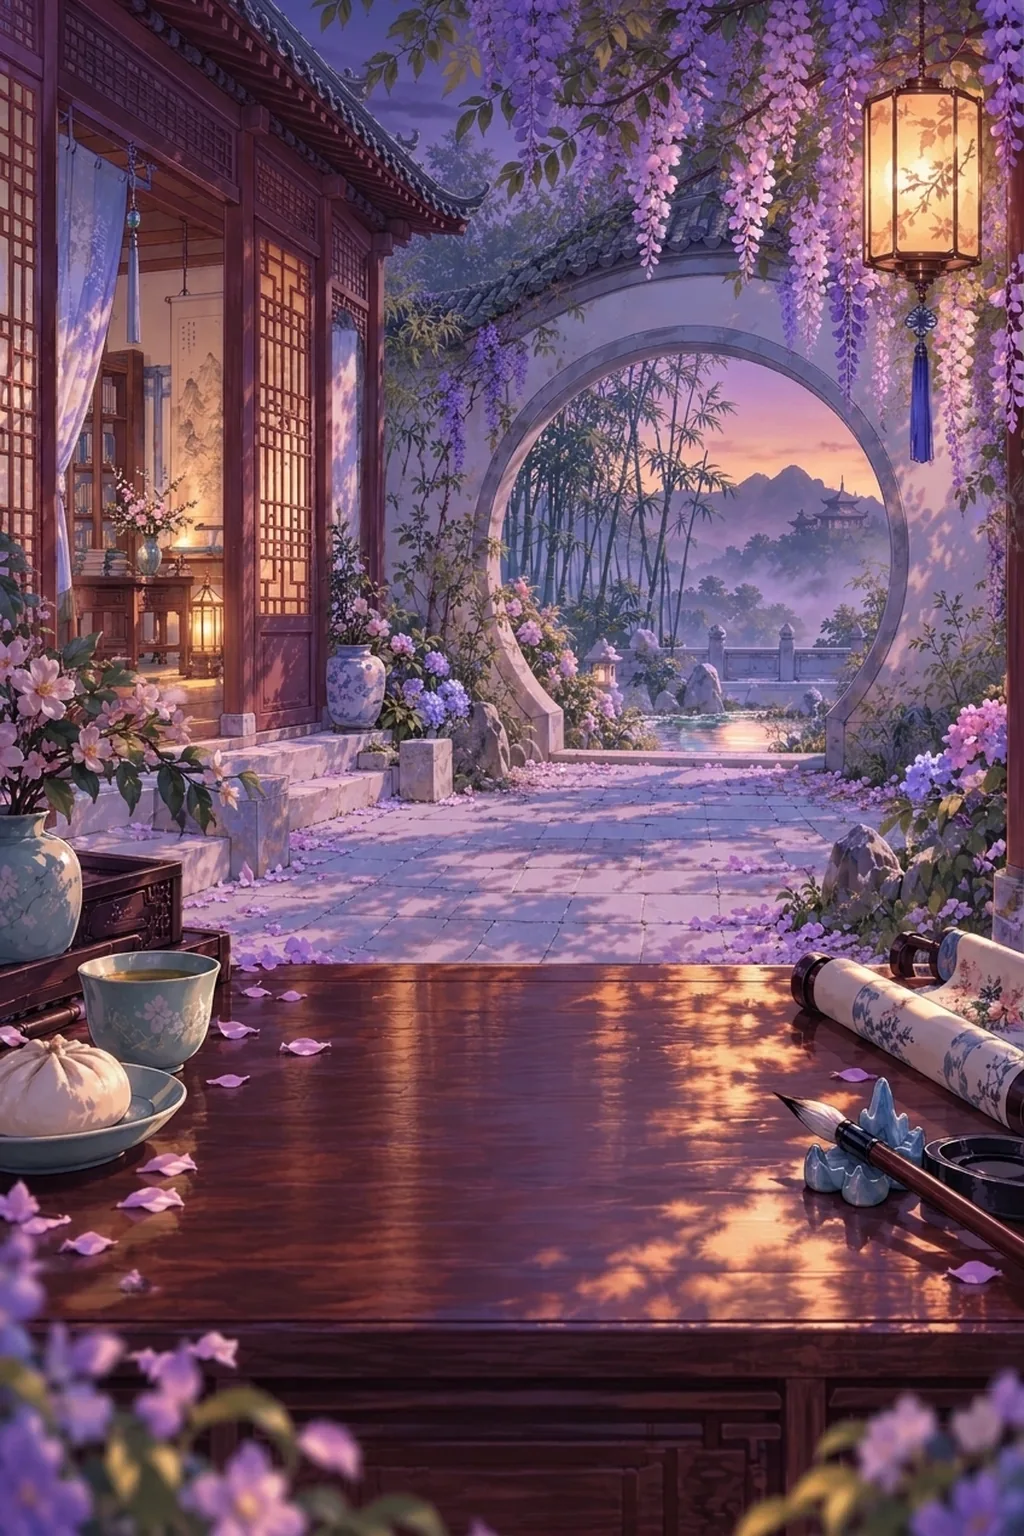
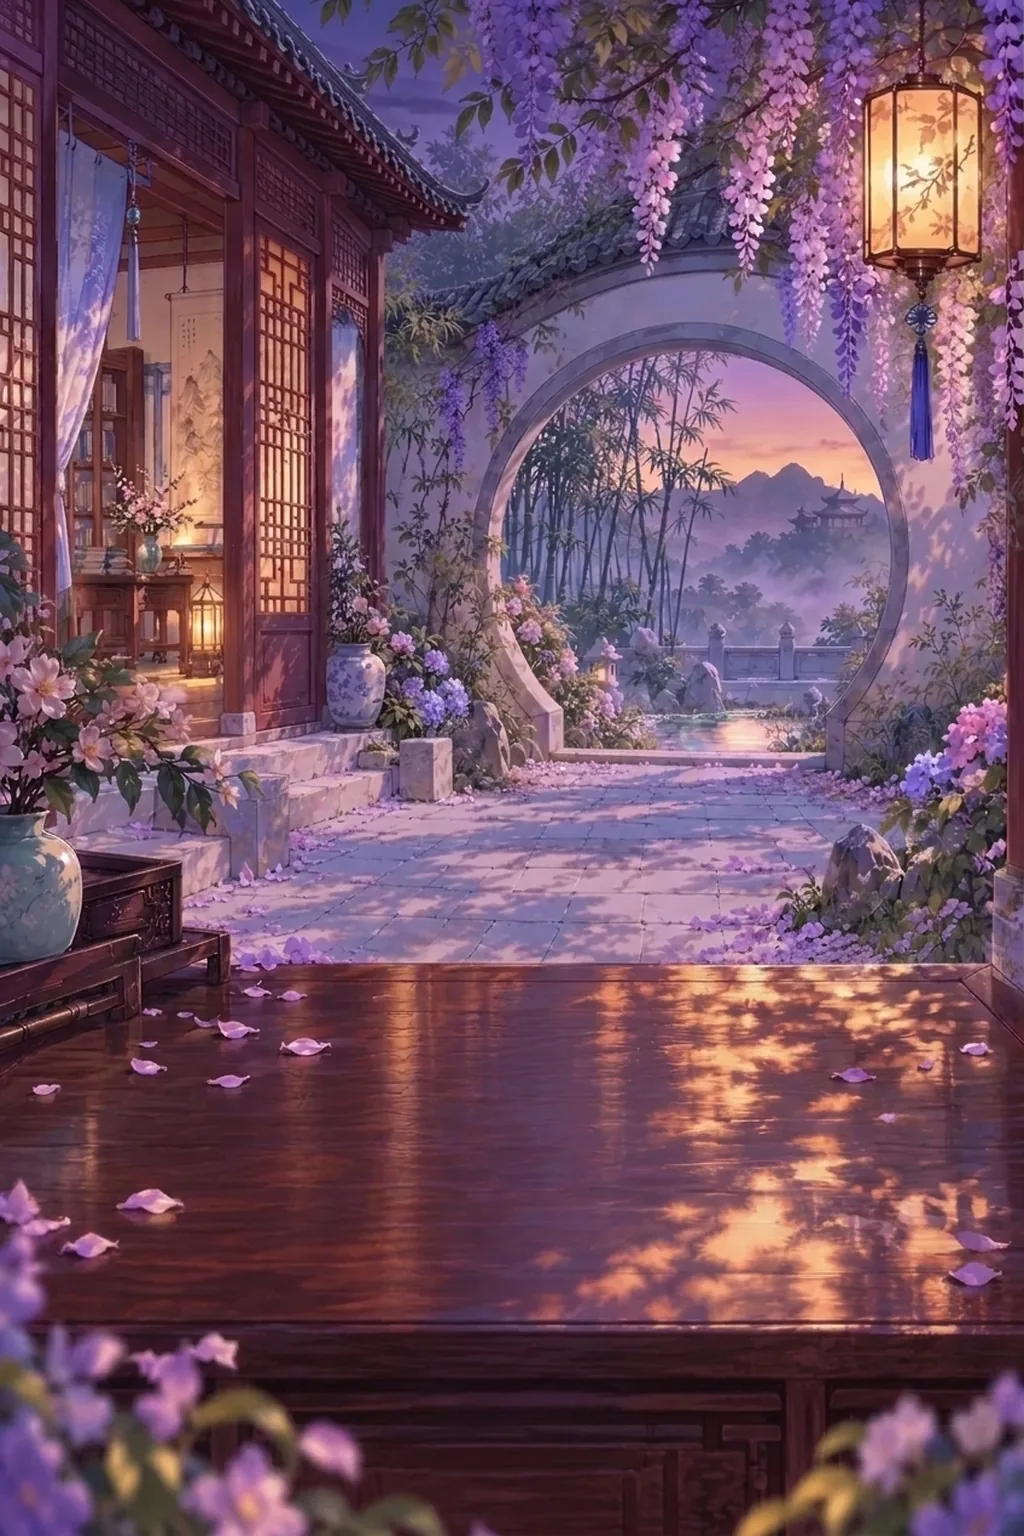
Paint the furnishings into the courtyard, on a cleared table
- New courtyard backgrounds (day, dusk, night, rain) with the table
  cleared of the painted cup, buns, scroll, brush and inkstone, made
  from the cleared day so all four match
- The six furnishings and the "tidy up?" papers are painted props in
  the courtyard's style (prop-*.webp), cut from a green-screen sheet
  and placed on the table at his scale; the chime hangs from the eaves
- Props take a soft contact shadow and follow the scene's light at
  dusk, night and in the rain; a thirsty orchid droops and greys
- His cushion nap now happens on the cushion itself (a new spot)
- The shop's furnishing cards show the painted props too

Claude-Session: https://claude.ai/code/session_01WmodTJ3qRr1zJHFAC2eRWe

diff --git a/style.css b/style.css
@@ -288,18 +288,24 @@ body[data-page=care] .toast{bottom:calc(145px + env(safe-area-inset-bottom))}
 .request-done{opacity:.8}
 .scene-topline>span:last-child{opacity:.8;white-space:nowrap;overflow:hidden;text-overflow:ellipsis;max-width:39%;font-size:8px}
 .room-decor{position:absolute;inset:0;z-index:3;pointer-events:none}
-.room-object{position:absolute;background:none;padding:5px;width:48px;height:54px;pointer-events:auto;color:#b69bae;filter:drop-shadow(0 3px 2px #35243735)}
-.room-object svg{width:100%;height:100%;stroke-width:1.25}
-.object-orchid{left:3%;bottom:18%;color:#a8bea1}
-.object-orchid svg{fill:#b0bba440}
-.object-scroll{left:5%;top:14%;color:#f0d8b3;width:42px;height:64px;background:#e6d3af45;border-radius:3px}
-.object-cup{right:8%;bottom:15%;color:#c4d6ce;fill:#cadbd0;width:45px;height:45px}
-.object-seal{right:3%;bottom:24%;color:#d4a47c;width:44px;height:46px}
-.object-chime{right:24%;top:9%;color:#d7bd91;height:62px;transform-origin:50% 0;animation:chimeSway 6s ease-in-out infinite}
-.object-cushion{left:50%;bottom:12%;transform:translateX(-50%);color:#c8a4c1;width:110px;height:35px}
-.object-cushion svg{fill:#ceacc67d;stroke-width:.9}
-.paper-clutter{position:absolute;z-index:3;left:12%;bottom:25%;width:49px;height:51px;background:none;color:#f2dec1;transform:rotate(-12deg);padding:3px;filter:drop-shadow(0 2px 2px #47333f44)}
-.paper-clutter svg{width:31px;height:31px;fill:#efdfc960;stroke-width:1}
+.room-object{position:absolute;background:none;padding:0;height:auto;pointer-events:auto}
+/* painted props on the cleared table; sizes are a share of the scene's width so they scale with it */
+.room-object img{display:block;width:100%;height:auto;pointer-events:none;filter:drop-shadow(0 3px 2px #2a1c2a55)}
+.object-orchid{left:1%;bottom:26%;width:23%}
+.object-cushion{left:54%;bottom:22%;width:38%}
+.object-scroll{left:85%;bottom:26%;width:14%}
+.object-cup{left:3%;bottom:12%;width:17%}
+.object-seal{left:83%;bottom:11%;width:15%}
+.object-chime{left:33%;top:-1%;width:8%;transform-origin:50% 0;animation:chimeSway 6s ease-in-out infinite}
+.object-chime img{filter:none}
+/* the props share the scene's light */
+[data-period=evening] .room-object img{filter:drop-shadow(0 3px 2px #2a1c2a55) brightness(.9) sepia(.18)}
+[data-period=night] .room-object img{filter:drop-shadow(0 3px 2px #10102055) brightness(.62) saturate(.72)}
+.rainy[data-period=morning] .room-object img,.rainy[data-period=afternoon] .room-object img{filter:drop-shadow(0 3px 2px #2a1c2a40) brightness(.88) saturate(.85)}
+.paper-clutter{position:absolute;z-index:3;left:30%;bottom:27%;width:16%;background:none;color:#fff7ed;padding:0;text-shadow:0 1px 4px #4f3640}
+.paper-clutter img{display:block;width:100%;height:auto;transform:rotate(-8deg);filter:drop-shadow(0 3px 2px #2a1c2a55)}
+[data-period=evening] .paper-clutter img{filter:drop-shadow(0 3px 2px #2a1c2a55) brightness(.9) sepia(.18)}
+[data-period=night] .paper-clutter img{filter:drop-shadow(0 3px 2px #10102055) brightness(.62) saturate(.72)}
 .paper-clutter span{font-family:var(--serif);font-style:italic;font-size:10px;display:block;margin-top:-2px}
 .ribbon-tie{position:absolute;z-index:2;width:18px;height:22px;right:28%;top:60%;filter:drop-shadow(0 1px 1px #362f4360);pointer-events:none}
 .ribbon-tie svg{width:100%;height:100%;fill:currentColor;stroke:#fff6;stroke-width:.7;transform:rotate(-12deg)}
@@ -556,11 +562,11 @@ body[data-page=care] .toast{bottom:calc(145px + env(safe-area-inset-bottom))}
 .search-locations.many button{min-height:52px;padding:9px 10px;gap:8px;font-size:11px;text-align:left}
 .search-locations.many svg{width:19px;height:19px;flex:none}
 .effect-note{font-size:10px;line-height:1.35;color:#9c8aa0;margin:-2px 0 6px;text-align:center}
-.room-object.thirsty{filter:saturate(.4);transform:rotate(-8deg);opacity:.75}
+.room-object.thirsty img{transform:rotate(-7deg) scaleY(.94);transform-origin:50% 100%;filter:saturate(.4) brightness(.92)}
 .room-object.thirsty::after{content:'water?';position:absolute;top:-14px;left:50%;transform:translateX(-50%);font-size:9px;font-style:italic;color:#fff7ed;text-shadow:0 1px 4px #4f3640;white-space:nowrap}
-.room-object.stirring svg{animation:chime-sway 1.6s ease-in-out infinite;transform-origin:50% 0}
+.room-object.stirring img{animation:chime-sway 1.6s ease-in-out infinite;transform-origin:50% 0}
 @keyframes chime-sway{25%{transform:rotate(9deg)}75%{transform:rotate(-9deg)}}
-.reduced-motion .room-object.stirring svg{animation:none}
+.reduced-motion .room-object.stirring img{animation:none}
 .treat-button small{opacity:.7;margin-left:3px}
 .jade-card{display:flex;gap:12px;align-items:flex-start;padding:12px 14px;margin-bottom:12px;border:1px solid #c9d8cc;border-radius:12px;background:#eef3ec88}
 .jade-card>svg{width:30px;height:30px;flex:none;stroke:#6f8f78;stroke-width:1.2;fill:none}
@@ -584,3 +590,4 @@ body[data-page=care] .toast{bottom:calc(145px + env(safe-area-inset-bottom))}
 .standalone .app-shell,.standalone .story-dialog{padding-top:calc(env(safe-area-inset-top) + var(--top-buffer))}
 /* the story reader covers the page completely, status bar included, in either theme */
 .story-dialog::backdrop{background:#f6f2e9;backdrop-filter:none}
+.prop-icon img{max-width:62px;max-height:52px;width:auto;height:auto;object-fit:contain;filter:drop-shadow(0 2px 2px #2a1c2a40)}

diff --git a/phase-two-ui.js b/phase-two-ui.js
@@ -37,7 +37,7 @@ export function createPhaseTwoUI(ctx){
       $('roomContent').innerHTML='<div class="furnishing-grid">'+TREATS.map(t=>'<article class="furnishing-card"><span class="prop-icon">'+icon(t.tray==='tea'?'tea':'bun')+'</span><h2>'+esc(t.name)+'</h2><p class="effect-note">'+esc(t.description)+'</p><button data-treat="'+t.id+'">'+t.price+' copper · buy'+(s.pantry[t.id]?' · '+s.pantry[t.id]+' kept':'')+'</button></article>').join('')+'</div><p class="shop-note">treats appear in the feed and tea trays. each is a big comfort, and a little extra bond.</p>';
       document.querySelectorAll('[data-treat]').forEach(b=>b.onclick=()=>{try{const next=buyTreat(ctx.state(),b.dataset.treat);ctx.commit({state:next});ctx.toast(TREATS.find(t=>t.id===b.dataset.treat).name+' · into the pantry');renderRoom();}catch(e){ctx.toast(e.message);}});
     }else{
-      $('roomContent').innerHTML='<div class="furnishing-grid">'+ITEMS.filter(i=>i.kind==='furnishing').map(item=>{const owned=s.owned.includes(item.id),placed=s.placed.includes(item.id);return '<article class="furnishing-card '+(placed?'is-placed':'')+'"><span class="prop-icon prop-'+item.id+'">'+icon(item.icon)+'</span><h2>'+esc(item.name)+'</h2><p class="effect-note">'+esc(item.effect)+'</p><button data-furnishing="'+item.id+'">'+(owned?placed?'put away':'place in courtyard':item.price+' copper · buy')+'</button></article>';}).join('')+'</div><p class="shop-note">tap a placed object in the courtyard to hear what he thinks.</p>';
+      $('roomContent').innerHTML='<div class="furnishing-grid">'+ITEMS.filter(i=>i.kind==='furnishing').map(item=>{const owned=s.owned.includes(item.id),placed=s.placed.includes(item.id);return '<article class="furnishing-card '+(placed?'is-placed':'')+'"><span class="prop-icon prop-'+item.id+'"><img src="./assets/prop-'+item.id+'.webp" alt=""></span><h2>'+esc(item.name)+'</h2><p class="effect-note">'+esc(item.effect)+'</p><button data-furnishing="'+item.id+'">'+(owned?placed?'put away':'place in courtyard':item.price+' copper · buy')+'</button></article>';}).join('')+'</div><p class="shop-note">tap a placed object in the courtyard to hear what he thinks.</p>';
       document.querySelectorAll('[data-furnishing]').forEach(b=>b.onclick=()=>{const item=ITEMS.find(i=>i.id===b.dataset.furnishing);try{let next=ctx.state();if(!next.owned.includes(item.id))next=purchase(next,item.id);next=placeFurnishing(next,item.id);const placed=next.placed.includes(item.id);ctx.commit({state:next});if(placed)ctx.speak(item.reaction,'making a little home, together.');ctx.toast(placed?item.name+' · placed in his courtyard':item.name+' · put away');}catch(e){ctx.toast(e.message);}});
     }
   }
@@ -74,7 +74,7 @@ export function createPhaseTwoUI(ctx){
   function renderDecor(){
     // a thirsty orchid droops until watered; the chime stirs when he has something to show you
     const s=ctx.state(),thirsty=orchidThirsty(s),stirring=Boolean(momentDue(s));
-    $('roomDecor').innerHTML=s.placed.map(id=>{const i=ITEMS.find(x=>x.id===id),flag=id==='orchid'&&thirsty?' thirsty':id==='chime'&&stirring?' stirring':'';return '<button class="room-object object-'+id+flag+'" data-object="'+id+'" aria-label="'+(flag===' thirsty'?'water the orchid':'inspect '+esc(i.name))+'">'+icon(i.icon)+'</button>';}).join('');
+    $('roomDecor').innerHTML=s.placed.map(id=>{const i=ITEMS.find(x=>x.id===id),flag=id==='orchid'&&thirsty?' thirsty':id==='chime'&&stirring?' stirring':'';return '<button class="room-object object-'+id+flag+'" data-object="'+id+'" aria-label="'+(flag===' thirsty'?'water the orchid':'inspect '+esc(i.name))+'"><img src="./assets/prop-'+id+'.webp" alt=""></button>';}).join('');
     document.querySelectorAll('[data-object]').forEach(b=>b.onclick=()=>{
       const id=b.dataset.object;
       if(id==='orchid'&&orchidThirsty(ctx.state())){ctx.commit(waterOrchid(ctx.state()));ctx.speak('“ah. it was being very diplomatic about its thirst. thank you.”','a little water, and the orchid lifts its head.');ctx.ping('tea');return;}

diff --git a/index.html b/index.html
@@ -66,7 +66,7 @@
         <button id="offerButton" class="scene-bond-button offer-button" hidden><svg><use href="#i-tea"/></svg><span>take the cup he poured you</span></button>
         <button id="momentButton" class="scene-bond-button moment-button" hidden><svg><use href="#i-scroll"/></svg><span>he has something to show you</span></button>
         <div id="roomDecor" class="room-decor"></div><div class="rain-effect" aria-hidden="true"></div>
-        <button id="paperClutter" class="paper-clutter" aria-label="tidy the loose papers"><svg><use href="#i-scroll"/></svg><span>tidy up?</span></button>
+        <button id="paperClutter" class="paper-clutter" aria-label="tidy the loose papers"><img src="./assets/prop-papers.webp" alt=""><span>tidy up?</span></button>
         <div class="character-area" id="characterArea"><div class="character-shadow"></div><button id="characterButton" class="character-button" aria-label="pet lin yan"><span class="character-sprite" id="characterSprite" role="img" aria-label="lin yan, a tiny minister in a blue robe and black winged hat"></span><span id="ribbonTie" class="ribbon-tie" hidden aria-hidden="true"><svg><use href="#i-ribbon"/></svg></span></button><div id="hearts" class="hearts" aria-hidden="true"></div><div id="bondFloat" class="bond-float" aria-hidden="true"></div></div>
         <div class="keepsake" id="keepsake" hidden><svg><use href="#i-tea"/></svg><span>your place</span></div>
         <div id="speechBubble" class="speech-bubble" role="status" aria-live="polite"><span class="speech-name">lin yan</span><p id="speechText">“ahem. the cup is only a temporary residence.”</p></div>

diff --git a/life.js b/life.js
@@ -4,7 +4,8 @@ export const SPOTS = {
   center: { left: 50, bottom: 13, scale: 1 },
   tea:    { left: 29, bottom: 12, scale: 1 },
   desk:   { left: 71, bottom: 12, scale: 1 },
-  garden: { left: 54, bottom: 31, scale: .78 }   // the far edge of the table, looking out toward the moon gate
+  garden: { left: 54, bottom: 31, scale: .78 },  // the far edge of the table, looking out toward the moon gate
+  cushion: { left: 73, bottom: 25, scale: .9 }   // on the silk cushion, when he has one
 };
 
 export const ACTIVITIES = [
@@ -34,7 +35,7 @@ export const ACTIVITIES = [
   { id:'thirsty', spot:'tea', frame:13, caption:'frowning at a drooping orchid.', weight:6,
     when:c=>c.orchidThirsty,
     lines:['“the orchid is sulking. i suspect neglect. i suspect myself.”'] },
-  { id:'cushion', spot:'center', frame:11, caption:'napping on the silk cushion. officially, resting his eyes.', weight:3,
+  { id:'cushion', spot:'cushion', frame:11, caption:'napping on the silk cushion. officially, resting his eyes.', weight:3,
     when:c=>c.placed.includes('cushion')&&c.energy<60&&c.period!=='morning',
     lines:['“mm. five more minutes. the empire can manage.”'] },
   { id:'chime', spot:'garden', frame:0, caption:'listening to the wind chime.', weight:2,

diff --git a/dark.css b/dark.css
@@ -63,14 +63,6 @@
 :root[data-theme=dark] .setting-row input{accent-color:#a293b0;background:#37303d}
 :root[data-theme=dark] .setting-row input:before{background:#201926}
 :root[data-theme=dark] .setting-row input:checked{background:#ac9db8}
-:root[data-theme=dark] .object-orchid{color:#c4d3bf}
-:root[data-theme=dark] .object-orchid svg{fill:#c9d1c140}
-:root[data-theme=dark] .object-scroll{color:#3c3048;background:#41354c45}
-:root[data-theme=dark] .object-cup{color:#3f3747;fill:#3b3443}
-:root[data-theme=dark] .object-seal{color:#e1bfa2}
-:root[data-theme=dark] .object-chime{color:#e5d3b6}
-:root[data-theme=dark] .object-cushion{color:#dbc4d7}
-:root[data-theme=dark] .object-cushion svg{fill:#4a40557d}
 :root[data-theme=dark] .care-action.ritual small{color:#b07d8d}
 :root[data-theme=dark] .care-action.ritual svg{color:#b07d8d}
 :root[data-theme=dark] .care-action.ritual::after{background:#d29faf}
